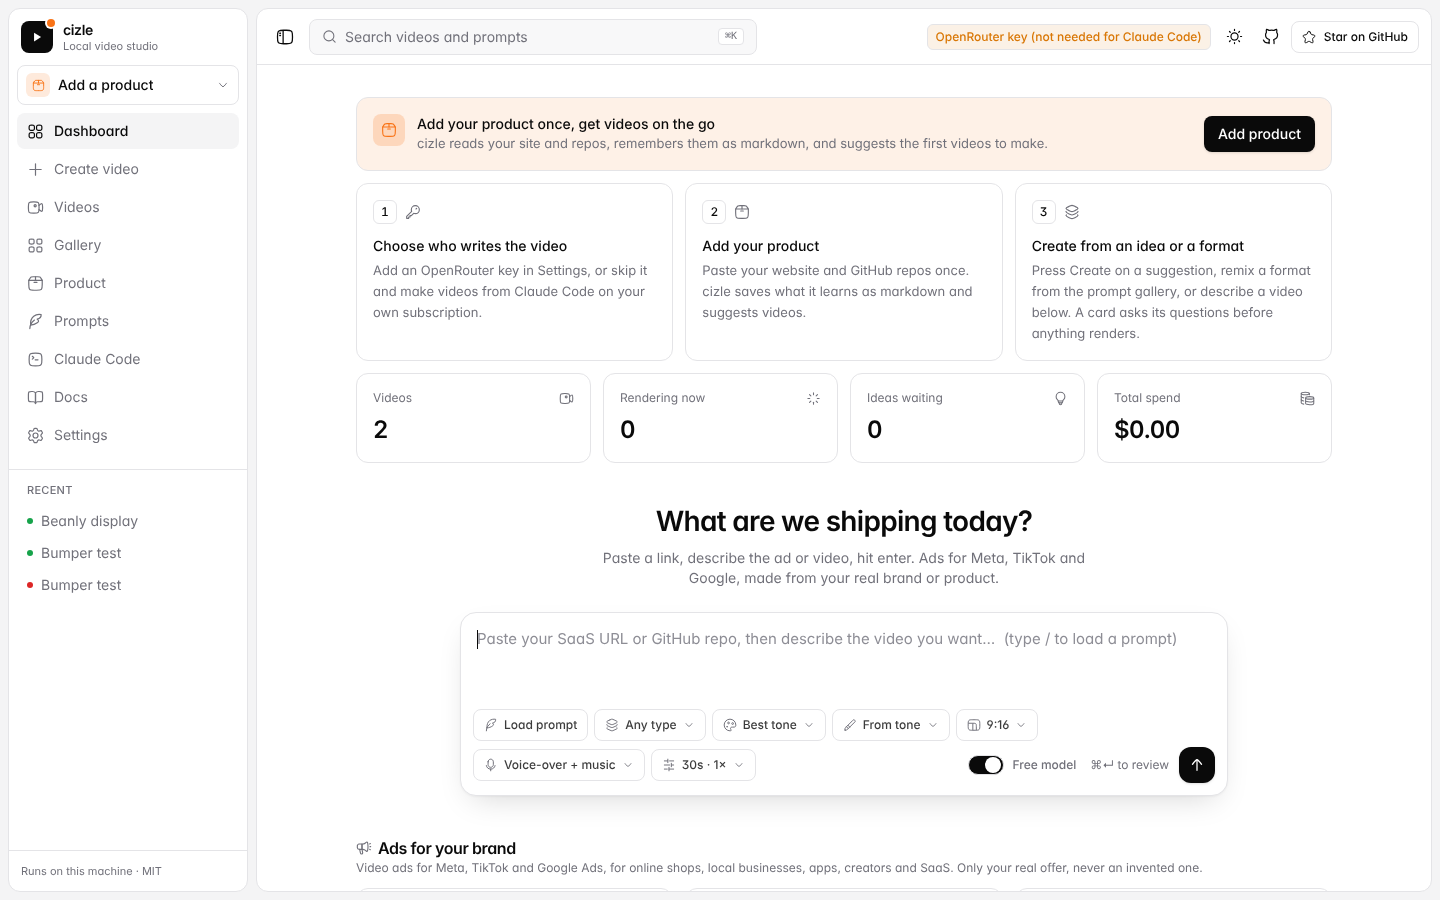
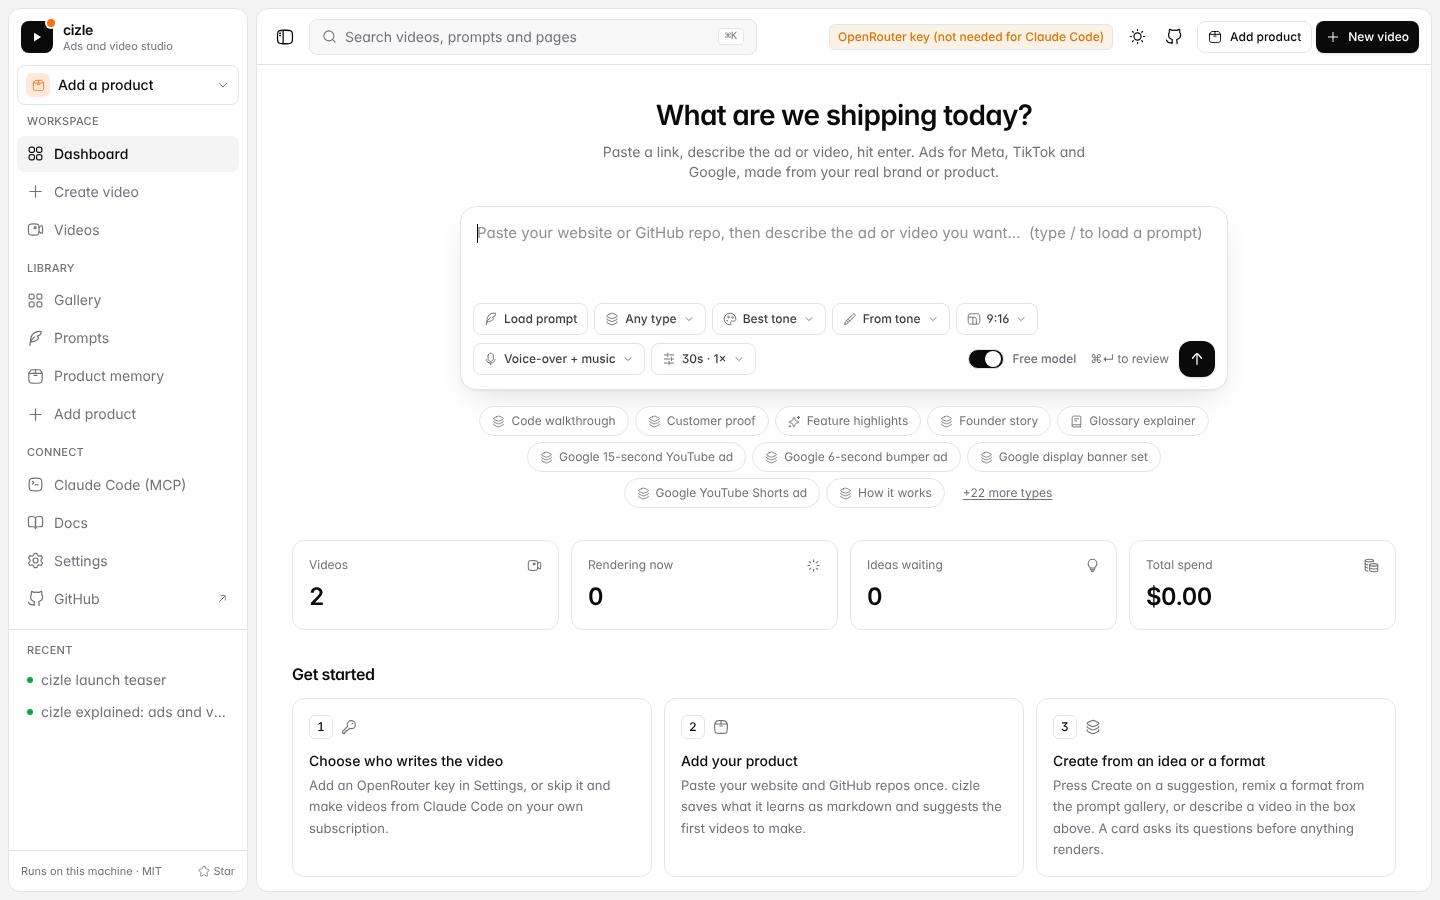
Dashboard: grouped navigation, Add product and New video in the top bar, composer first on home, consistent page width
Claude-Session: https://claude.ai/code/session_01ADgGft7A9yJ8TpQNorLuxU

diff --git a/web/src/components/AppShell.tsx b/web/src/components/AppShell.tsx
@@ -1,6 +1,7 @@
 import { useEffect, useState, type ReactNode } from "react";
 import { Link, Outlet, useRouterState } from "@tanstack/react-router";
 import {
+	ArrowUpRight01Icon,
 	BookOpen01Icon,
 	Cancel01Icon,
 	ComputerIcon,
@@ -33,17 +34,35 @@ import { useTheme } from "@/lib/theme";
 import { cn } from "@/lib/utils";
 import { useWorkspace } from "@/lib/workspace";
 
-const NAV = [
-	{ to: "/", label: "Dashboard", icon: DashboardSquare01Icon, exact: true },
-	{ to: "/create", label: "Create video", icon: PlusSignIcon },
-	{ to: "/videos", label: "Videos", icon: Video01Icon },
-	{ to: "/gallery", label: "Gallery", icon: GridViewIcon },
-	{ to: "/product", label: "Product", icon: Package01Icon },
-	{ to: "/prompts", label: "Prompts", icon: QuillWrite01Icon },
-	{ to: "/claude", label: "Claude Code", icon: ComputerTerminal01Icon },
-	{ to: "/docs", label: "Docs", icon: BookOpen01Icon },
-	{ to: "/settings", label: "Settings", icon: Settings01Icon },
-] as const;
+type NavItem = { to: string; label: string; icon: Parameters<typeof Icon>[0]["icon"]; exact?: boolean; href?: string };
+const NAV_GROUPS: { label: string; items: NavItem[] }[] = [
+	{
+		label: "Workspace",
+		items: [
+			{ to: "/", label: "Dashboard", icon: DashboardSquare01Icon, exact: true },
+			{ to: "/create", label: "Create video", icon: PlusSignIcon },
+			{ to: "/videos", label: "Videos", icon: Video01Icon },
+		],
+	},
+	{
+		label: "Library",
+		items: [
+			{ to: "/gallery", label: "Gallery", icon: GridViewIcon },
+			{ to: "/prompts", label: "Prompts", icon: QuillWrite01Icon },
+			{ to: "/product", label: "Product memory", icon: Package01Icon },
+			{ to: "/products/new", label: "Add product", icon: PlusSignIcon, exact: true },
+		],
+	},
+	{
+		label: "Connect",
+		items: [
+			{ to: "/claude", label: "Claude Code (MCP)", icon: ComputerTerminal01Icon },
+			{ to: "/docs", label: "Docs", icon: BookOpen01Icon },
+			{ to: "/settings", label: "Settings", icon: Settings01Icon },
+			{ to: "", label: "GitHub", icon: GithubIcon, href: REPO_URL },
+		],
+	},
+];
 
 function Sidebar({ collapsed, mobileOpen, onClose }: { collapsed: boolean; mobileOpen: boolean; onClose: () => void }) {
 	const pathname = useRouterState({ select: (s) => s.location.pathname });
@@ -72,7 +91,7 @@ function Sidebar({ collapsed, mobileOpen, onClose }: { collapsed: boolean; mobil
 						{slim ? null : (
 							<span className="leading-tight">
 								<span className="block text-sm font-semibold tracking-tight">cizle</span>
-								<span className="block text-[11px] text-muted-foreground">Local video studio</span>
+								<span className="block text-[11px] text-muted-foreground">Ads and video studio</span>
 							</span>
 						)}
 					</Link>
@@ -85,29 +104,39 @@ function Sidebar({ collapsed, mobileOpen, onClose }: { collapsed: boolean; mobil
 				<div className="px-2 pb-2">
 					<ProductSwitcher slim={slim} onNavigate={onClose} />
 				</div>
-				<nav className="flex flex-col gap-0.5 px-2">
-					{NAV.map((item) => {
-						const active = "exact" in item && item.exact ? pathname === item.to : pathname === item.to || pathname.startsWith(`${item.to}/`);
-						return (
-							<Link
-								key={item.to}
-								to={item.to}
-								onClick={onClose}
-								title={slim ? item.label : undefined}
-								className={cn(
+				<nav className="flex min-h-0 flex-col gap-3 overflow-y-auto px-2">
+					{NAV_GROUPS.map((group, gi) => (
+						<div key={group.label} className="flex flex-col gap-0.5">
+							{slim ? gi ? <div className="mx-2 mb-1 border-t border-border" /> : null : <p className="px-2.5 pb-1 text-[11px] font-medium tracking-wide text-muted-foreground uppercase">{group.label}</p>}
+							{group.items.map((item) => {
+								const active = !item.href && (item.exact ? pathname === item.to : pathname === item.to || pathname.startsWith(`${item.to}/`));
+								const cls = cn(
 									"flex h-9 items-center gap-2.5 rounded-lg px-2.5 text-sm transition-colors",
 									slim && "justify-center px-0",
 									active ? "bg-accent font-medium text-foreground" : "text-muted-foreground hover:bg-accent hover:text-foreground",
-								)}
-							>
-								<Icon icon={item.icon} size={17} />
-								{slim ? null : item.label}
-							</Link>
-						);
-					})}
+								);
+								const inner = (
+									<>
+										<Icon icon={item.icon} size={17} />
+										{slim ? null : item.label}
+										{item.href && !slim ? <Icon icon={ArrowUpRight01Icon} size={13} className="ml-auto" /> : null}
+									</>
+								);
+								return item.href ? (
+									<a key={item.label} href={item.href} target="_blank" rel="noreferrer" title={slim ? item.label : undefined} className={cls}>
+										{inner}
+									</a>
+								) : (
+									<Link key={item.to} to={item.to} onClick={onClose} title={slim ? item.label : undefined} className={cls}>
+										{inner}
+									</Link>
+								);
+							})}
+						</div>
+					))}
 				</nav>
 				{slim ? null : (
-					<div className="mt-4 min-h-0 flex-1 overflow-y-auto border-t border-border px-2 pt-3">
+					<div className="mt-3 max-h-48 shrink-0 overflow-y-auto border-t border-border px-2 pt-3">
 						<p className="px-2.5 pb-1.5 text-[11px] font-medium tracking-wide text-muted-foreground uppercase">Recent</p>
 						{recent.length ? (
 							recent.map((v) => (
@@ -135,9 +164,14 @@ function Sidebar({ collapsed, mobileOpen, onClose }: { collapsed: boolean; mobil
 						)}
 					</div>
 				)}
-				{slim ? <div className="flex-1" /> : null}
+				<div className="flex-1" />
 				{slim ? null : <SyncBadge />}
-				<div className={cn("border-t border-border p-3 text-[11px] text-muted-foreground", slim && "hidden")}>Runs on this machine · MIT</div>
+				<div className={cn("flex items-center justify-between border-t border-border p-3 text-[11px] text-muted-foreground", slim && "hidden")}>
+					<span>Runs on this machine · MIT</span>
+					<a href={REPO_URL} target="_blank" rel="noreferrer" className="inline-flex items-center gap-1 hover:text-foreground">
+						<Icon icon={StarIcon} size={12} /> Star
+					</a>
+				</div>
 			</aside>
 		</>
 	);
@@ -216,7 +250,7 @@ export function AppShell({ children }: { children?: ReactNode }) {
 							className="flex h-9 w-full max-w-md items-center gap-2 rounded-lg border border-border bg-background/60 px-3 text-sm text-muted-foreground transition-colors hover:bg-accent"
 						>
 							<Icon icon={Search01Icon} size={15} />
-							<span className="truncate">Search videos and prompts</span>
+							<span className="truncate">Search videos, prompts and pages</span>
 							<kbd className="ml-auto hidden rounded border border-border bg-surface px-1.5 font-mono text-[10px] sm:inline">⌘K</kbd>
 						</button>
 						<div className="ml-auto flex items-center gap-1">
@@ -231,10 +265,15 @@ export function AppShell({ children }: { children?: ReactNode }) {
 									<Icon icon={GithubIcon} size={17} />
 								</a>
 							</Button>
-							<Button variant="outline" size="sm" className="hidden sm:inline-flex" asChild>
-								<a href={REPO_URL} target="_blank" rel="noreferrer">
-									<Icon icon={StarIcon} size={14} /> Star on GitHub
-								</a>
+							<Button variant="outline" size="sm" className="ml-1 hidden md:inline-flex" asChild>
+								<Link to="/products/new">
+									<Icon icon={Package01Icon} size={14} /> Add product
+								</Link>
+							</Button>
+							<Button size="sm" asChild>
+								<Link to="/create">
+									<Icon icon={PlusSignIcon} size={14} /> <span className="hidden sm:inline">New video</span>
+								</Link>
 							</Button>
 						</div>
 					</header>
@@ -246,9 +285,9 @@ export function AppShell({ children }: { children?: ReactNode }) {
 	);
 }
 
-export function Page({ title, description, actions, children, wide }: { title: string; description?: string; actions?: ReactNode; children: ReactNode; wide?: boolean }) {
+export function Page({ title, description, actions, children }: { title: string; description?: string; actions?: ReactNode; children: ReactNode; wide?: boolean }) {
 	return (
-		<div className={cn("mx-auto w-full px-4 py-6 sm:px-6 sm:py-8", wide ? "max-w-6xl" : "max-w-5xl")}>
+		<div className="mx-auto w-full max-w-6xl px-4 py-6 sm:px-6 sm:py-8">
 			<div className="mb-6 flex flex-wrap items-end justify-between gap-3">
 				<div>
 					<h1 className="text-xl font-semibold tracking-tight">{title}</h1>

diff --git a/web/src/pages/Dashboard.tsx b/web/src/pages/Dashboard.tsx
@@ -88,52 +88,13 @@ export function DashboardPage() {
 	const running = (useVideos("").data || []).filter((v) => isActive(v.status));
 
 	return (
-		<div className="mx-auto w-full max-w-5xl px-4 py-6 sm:px-6 sm:py-8">
-			{productsLoaded && !product ? (
-				<div className="mb-3 flex flex-wrap items-center justify-between gap-3 rounded-xl border border-brand/30 bg-brand/10 p-4">
-					<div className="flex items-start gap-3">
-						<span className="flex size-8 shrink-0 items-center justify-center rounded-lg bg-brand/20 text-brand">
-							<Icon icon={Package01Icon} size={16} />
-						</span>
-						<div>
-							<p className="text-sm font-medium">Add your product once, get videos on the go</p>
-							<p className="text-[13px] text-muted-foreground">cizle reads your site and repos, remembers them as markdown, and suggests the first videos to make.</p>
-						</div>
-					</div>
-					<Button asChild>
-						<Link to="/products/new">Add product</Link>
-					</Button>
-				</div>
-			) : null}
-			<div className="grid gap-3 sm:grid-cols-3">
-				<Step n={1} icon={Key01Icon} title="Choose who writes the video" done={keyReady} to={keyReady ? "/settings" : "/claude"}>
-					{keyReady ? "OpenRouter key connected. Flip the Free switch to use free models instead of paid ones." : "Add an OpenRouter key in Settings, or skip it and make videos from Claude Code on your own subscription."}
-				</Step>
-				<Step n={2} icon={Package01Icon} title="Add your product" done={Boolean(product)} to={product ? "/product" : "/products/new"}>
-					{product ? `${product.name} is remembered in products/${product.slug}/. Sync checks its repos and site for new commits and pages.` : "Paste your website and GitHub repos once. cizle saves what it learns as markdown and suggests videos."}
-				</Step>
-				<Step n={3} icon={Layers01Icon} title="Create from an idea or a format">
-					Press Create on a suggestion, remix a format from the prompt gallery, or describe a video below. A card asks its questions before anything renders.
-				</Step>
-			</div>
-
-			<div className="mt-3 grid grid-cols-2 gap-3 lg:grid-cols-4">
-				<Stat label="Videos" value={s ? s.videos : "—"} icon={Video01Icon} />
-				<Stat label="Rendering now" value={s ? s.rendering : "—"} icon={Loading03Icon} spin={Boolean(s?.rendering)} />
-				<Stat label="Ideas waiting" value={productsLoaded ? ideasWaiting : "—"} icon={LightbulbIcon} />
-				<Stat label="Total spend" value={s ? usd(s.spend_usd, 2) : "—"} icon={Coins01Icon} />
-			</div>
-
-			<section className="mt-10">
+		<div className="mx-auto w-full max-w-6xl px-4 py-6 sm:px-6 sm:py-8">
+			<section>
 				<h1 className="text-center text-2xl font-semibold tracking-tight sm:text-[28px]">What are we shipping today?</h1>
 				<p className="mx-auto mt-2 max-w-lg text-center text-sm text-muted-foreground">Paste a link, describe the ad or video, hit enter. Ads for Meta, TikTok and Google, made from your real brand or product.</p>
 				<div className="mx-auto mt-6 max-w-3xl">
 					<Composer autoFocus />
 				</div>
-				{product ? <SuggestedPrompts slug={slug} title={`Prompts for ${product.name}`} className="mx-auto mt-8 max-w-5xl" /> : null}
-				<AdShelf className="mx-auto mt-10 max-w-5xl" />
-				<PromptShelf className="mx-auto mt-10 max-w-5xl" />
-				<ClaudeCodeCard className="mx-auto mt-8 max-w-5xl" />
 				{types.length ? (
 					<div className="mx-auto mt-4 flex max-w-3xl flex-wrap justify-center gap-1.5">
 						{types.slice(0, 10).map((t) => (
@@ -155,6 +116,30 @@ export function DashboardPage() {
 					</div>
 				) : null}
 			</section>
+			<div className="mt-8 grid grid-cols-2 gap-3 lg:grid-cols-4">
+				<Stat label="Videos" value={s ? s.videos : "—"} icon={Video01Icon} />
+				<Stat label="Rendering now" value={s ? s.rendering : "—"} icon={Loading03Icon} spin={Boolean(s?.rendering)} />
+				<Stat label="Ideas waiting" value={productsLoaded ? ideasWaiting : "—"} icon={LightbulbIcon} />
+				<Stat label="Total spend" value={s ? usd(s.spend_usd, 2) : "—"} icon={Coins01Icon} />
+			</div>
+
+			{!product ? (
+				<section className="mt-8">
+					<h2 className="mb-3 text-base font-semibold tracking-tight">Get started</h2>
+			<div className="grid gap-3 sm:grid-cols-3">
+				<Step n={1} icon={Key01Icon} title="Choose who writes the video" done={keyReady} to={keyReady ? "/settings" : "/claude"}>
+					{keyReady ? "OpenRouter key connected. Flip the Free switch to use free models instead of paid ones." : "Add an OpenRouter key in Settings, or skip it and make videos from Claude Code on your own subscription."}
+				</Step>
+				<Step n={2} icon={Package01Icon} title="Add your product" to="/products/new">
+					Paste your website and GitHub repos once. cizle saves what it learns as markdown and suggests the first videos to make.
+				</Step>
+				<Step n={3} icon={Layers01Icon} title="Create from an idea or a format">
+					Press Create on a suggestion, remix a format from the prompt gallery, or describe a video in the box above. A card asks its questions before anything renders.
+				</Step>
+			</div>
+
+				</section>
+			) : null}
 
 			{running.length ? (
 				<section className="mt-10">
@@ -194,6 +179,13 @@ export function DashboardPage() {
 					</div>
 				</section>
 			) : null}
+
+			<div className="mt-2">
+				{product ? <SuggestedPrompts slug={slug} title={`Prompts for ${product.name}`} className="mt-10" /> : null}
+				<AdShelf className="mt-10" />
+				<PromptShelf className="mt-10" />
+				<ClaudeCodeCard className="mt-10" />
+			</div>
 
 			<section className="mt-12">
 				<div className="mb-3 flex items-end justify-between">

diff --git a/web/src/components/Composer.tsx b/web/src/components/Composer.tsx
@@ -349,7 +349,7 @@ export function Composer({ initialPromptId, initialPresetId, autoFocus, size = "
 							submit();
 						}
 					}}
-					placeholder={product ? `Describe the video you want for ${product.name}…  (type / to load a prompt)` : "Paste your SaaS URL or GitHub repo, then describe the video you want…  (type / to load a prompt)"}
+					placeholder={product ? `Describe the video you want for ${product.name}…  (type / to load a prompt)` : "Paste your website or GitHub repo, then describe the ad or video you want…  (type / to load a prompt)"}
 					className={cn("block w-full resize-none bg-transparent px-4 pt-3.5 pb-2 text-[15px] leading-relaxed outline-none placeholder:text-muted-foreground/80", size === "lg" ? "min-h-24" : "min-h-16")}
 				/>
 				{type === "comparison" ? (

diff --git a/web/src/pages/Create.tsx b/web/src/pages/Create.tsx
@@ -5,7 +5,7 @@ import { Page } from "@/components/AppShell";
 export function CreatePage() {
 	const search = useSearch({ strict: false }) as { prompt?: string; preset?: string };
 	return (
-		<Page title="Create a video" description="Paste a SaaS URL or GitHub repo, pick a type, and describe what you want. Each run makes 1–3 videos under a minute.">
+		<Page title="Create a video" description="Paste a website or GitHub repo, pick a video type or an ad format, and describe what you want. Each run makes 1–3 videos under a minute.">
 			<Composer initialPromptId={search.prompt} initialPresetId={search.preset} autoFocus />
 			<div className="mt-8 grid gap-3 text-[13px] text-muted-foreground sm:grid-cols-3">
 				<div className="rounded-xl border border-border p-4">

diff --git a/web/src/content/guide.md b/web/src/content/guide.md
@@ -73,9 +73,13 @@ Prefer Claude to do the writing? Skip steps 1 and 2 and see [Claude Code and MCP
 
 ## A tour of the dashboard
 
+### Layout
+
+The left sidebar is grouped: **Workspace** (Dashboard, Create video, Videos), **Library** (Gallery, Prompts, Product memory, Add product) and **Connect** (Claude Code over MCP, Docs, Settings, GitHub), with your recent videos below. The top bar has search, theme, **Add product** and a **New video** button on every page.
+
 ### Dashboard
 
-The home screen has a three step setup (choose who writes the video, add your product, create), live stats (videos, rendering now, ideas waiting, total spend), and the composer. Below the composer:
+The home screen starts with the composer, then live stats (videos, rendering now, ideas waiting, total spend) and, until you add a product, a three step "Get started" row. Below that:
 
 - **Prompts picked for your product**, based on your kind of brand or founder and your product category, one for each animated style.
 - **Ads for your brand**: tiles for Meta, TikTok and Google Ads with their formats.
